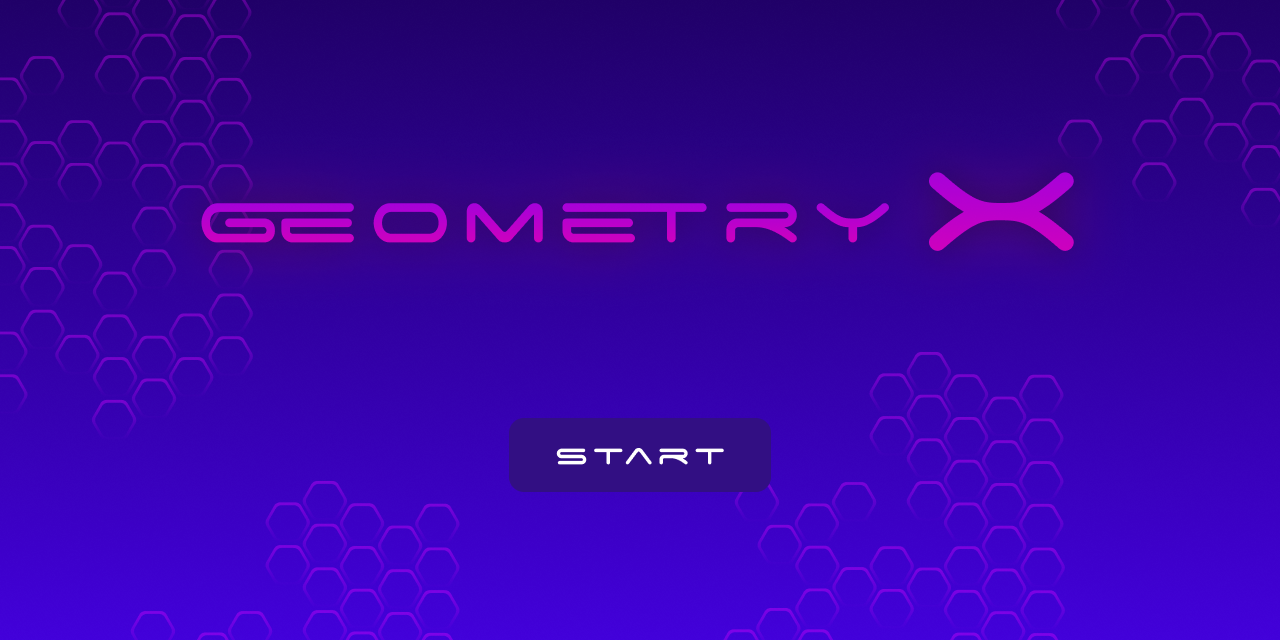
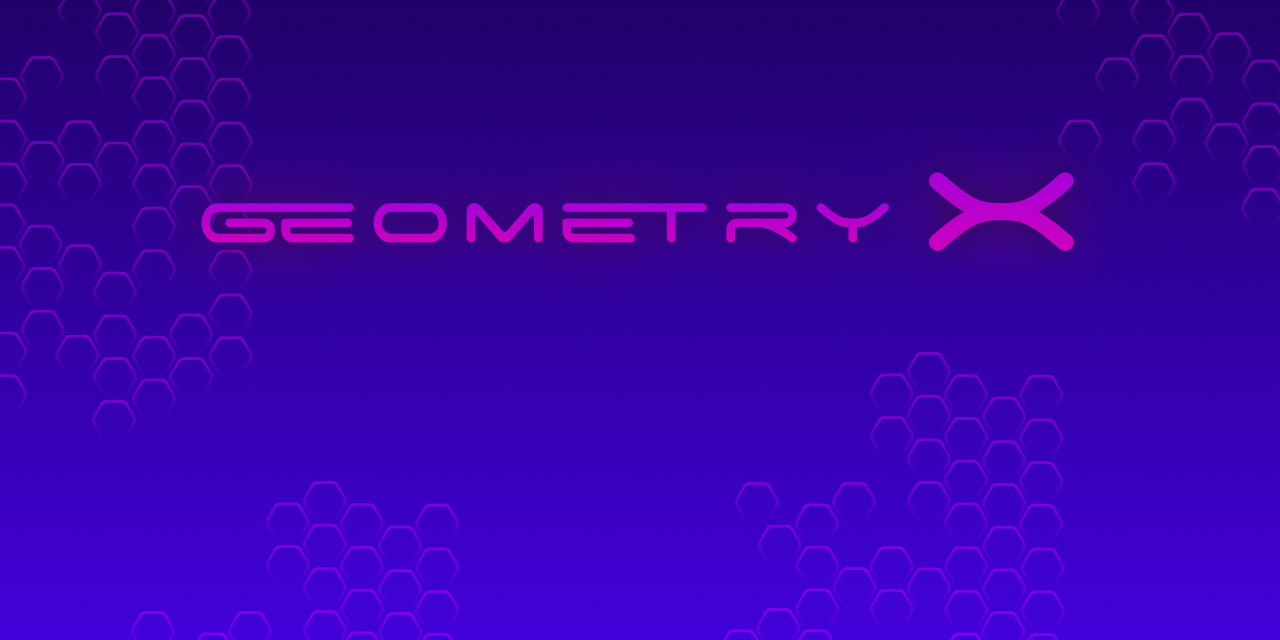
Screens selections and isntructions

Changed region(s): [[0.375, 0.6562, 0.625, 0.7812]]

diff --git a/src/main/Geometrix.java b/src/main/Geometrix.java
@@ -12,17 +12,20 @@ import view.player.Player;
 
 public class Geometrix extends PApplet {
 
-	
+	//Screens
 	private int screen;
 	private GeometrixController controller;
 	private PFont font;
 	private boolean continueConnection, connectionJ1, connectionJ2;
 	private boolean feedStart, feedConnection;
+	int tamX;
 	
 	
 	//Imagenes
 	private PImage startScreen, startFeedScreen;
 	private PImage connectScreen,connectJ1,connectJ2,connectBtn,connectFeedBtn;
+	private PImage selectScreen;
+	private PImage instructionsScreen;
 	private PImage gameScreen;
 	private PImage winScreen;
 	//private InetAddress inetAddress;
@@ -44,6 +47,7 @@ public class Geometrix extends PApplet {
 		cargarRecursos();
 		connectionJ1  = false;
 		connectionJ2  = false;
+		tamX = 0;
 		
 		
 		controller = new GeometrixController(this,this);
@@ -66,16 +70,20 @@ public class Geometrix extends PApplet {
 
 
 	public void draw() {
-		
+	
 		switch(screen) {
-		case 0:
+		case 0://Start Screen
 			//scale(-1,0);
 			image(startScreen,0,0);
-			if(feedStart) {
-				image(startFeedScreen,0,0);
+			tamX++;
+			noStroke();
+			fill(158,0,225);
+			rect(width/2-225,450,tamX,50,10);
+			if(frameCount % 450 ==0) {
+				screen=2;
 			}
 			break;
-		case 2:
+		case 2://Conection Screen
 			image(connectScreen,0,0);
 			textFont(font);
 			fill(158,0,225);
@@ -98,12 +106,23 @@ public class Geometrix extends PApplet {
 			
 			break;
 			
-		case 3:
+		case 3://Selection Screen
+			image(selectScreen,0,0);
+			
+			break;
+			
+		case 4://Instructions Screen
+			image(instructionsScreen,0,0);
+			
+			 break;
+			 
+			
+		case 5://Game Screen
 			image(gameScreen,0,0);
 			controller.drawSpace();
 			
 			break;
-		case 4:
+		case 6://Win Screen
 			image(winScreen,0,0);
 			
 			break;
@@ -119,6 +138,7 @@ public class Geometrix extends PApplet {
 	public void mousePressed() {
 		
 		//System.out.println(" X "+mouseX+" Y "+mouseY);
+		screen ++;
 		
 		switch(screen) {
 		case 0:
@@ -173,7 +193,9 @@ public class Geometrix extends PApplet {
 		connectJ2 = loadImage("../resources/images/backgrounds/connectJ2.png");
 		connectBtn = loadImage("../resources/images/backgrounds/connectBtn.png");
 		connectFeedBtn = loadImage("../resources/images/backgrounds/connectFeedBtn.png");
+		selectScreen = loadImage("../resources/images/backgrounds/selectionScreen.png");
 		gameScreen =  loadImage("../resources/images/backgrounds/gameScreen.png");
+		instructionsScreen = loadImage("../resources/images/backgrounds/instructionsScreen.png");
 
 	}
 	

diff --git a/src/control/GeometrixController.java b/src/control/GeometrixController.java
@@ -97,6 +97,10 @@ public class GeometrixController implements OnMessageListener {
 		player1.getShip().drawInGame();
 		//player2.getShip().drawInGame();
 	}
+	
+	public void shootImpact(){
+		
+	}
 
 	
 	public void Impact() {

diff --git a/src/view/spaceship/SpaceShip.java b/src/view/spaceship/SpaceShip.java
@@ -38,6 +38,9 @@ public abstract class SpaceShip {
 		chagePosx();
 		speed = 15;
 		
+		dano = 0;
+		danoSuper=0;
+		
 		
 	}
 	
